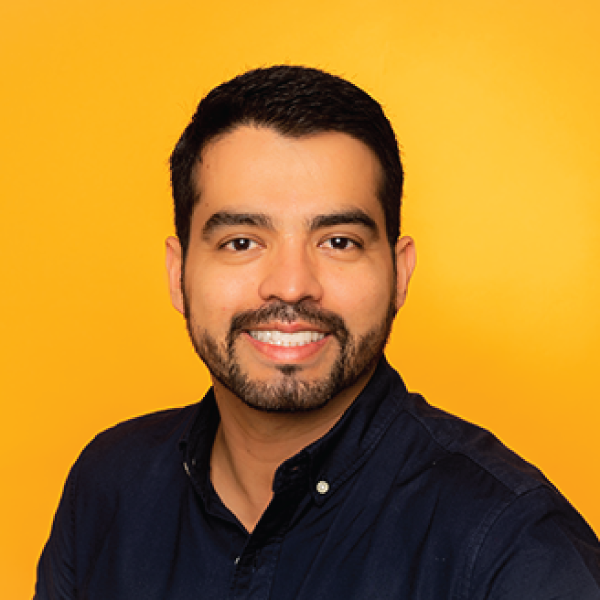
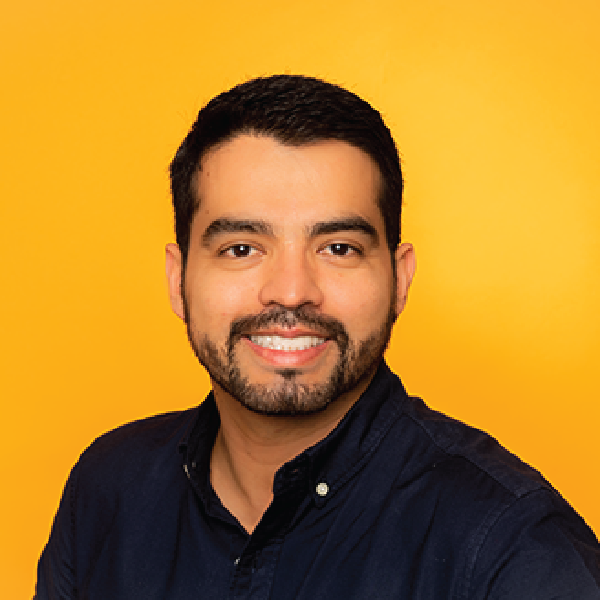
Adding Speakers and updating photos for existing speakers
[MDE-2020]Adding Speakers and updating photos for existing speakers

diff --git a/content/events/2020-medellin/speakers/christian-gomez.md b/content/events/2020-medellin/speakers/christian-gomez.md
@@ -1,0 +1,24 @@
++++
+Title = "Christian Camilo Gómez"
+#Twitter = "Ana_M_Medina"
+image = "Christian-Camilo-Gomez.png"
+type = "speaker"
+linktitle = "christian-gomez"
+LinkedIn = "https://www.linkedin.com/in/chrisgpz/"
+#Website = ""
++++
+
+Profesional de sistemas con +9 años de experiencia en TI apasionado por las nuevas tecnologías con enfoque principal en el aseguramiento de calidad de software en el ciclo de vida de desarrollo de software.
+
+Durante este tiempo me he desempeñado en fábricas de software, fabricas de testing y empresas de diferentes core de negocio como salud EPS, gubernamental, banca, telecomunicaciones, retail entre otros.
+
+En los últimos 4 años me he dedicado a apoyar la transformación de las organizaciones en sus áreas de tecnología a través de conceptos y metodologías principales como ISTQB, Agile Testing, Automatización de pruebas, DevOps, DevTestOps, Transformación Digital y en general la adopción de nuevas filosofías de trabajo y buenas practicas en el SDLC (Software Development Life Cycle).
+
+Me motiva apoyar a las organizaciones en la adopción de herramientas de automatización escalables y rentables mediante la implementación de múltiples tecnologías que permitan cambiar el mind-set, visión y entendimiento de las áreas clave de TI, lo anterior incluyendo estrategias que permitan tener OKR's y KPI's de evolución durante la ejecución.
+
+En lo personal considero que tengo facilidad de comunicación e interacción para la atención a clientes, suficientes bases y principios de liderazgo, responsabilidad, honestidad y búsqueda permanente de la superación en el trabajo como elemento fundamental de mi formación personal y profesional, Buenas relaciones interpersonales, gran capacidad de escucha y comunicación, con un alto grado de sentido de motivación y compromiso.
+
+Especialidades: ISTQB, Automatización de pruebas, Agile Testing, DevOps, Iac (Infrastructure as code), DaaS (Deployment as a Service), Modelo de adopción tecnológica, Habilidades para liderazgo de proyecto de transformación y venta consultiva de nuevas tecnologías. 
+
+
+

diff --git a/content/events/2020-medellin/speakers/jose-sanchez.md b/content/events/2020-medellin/speakers/jose-sanchez.md
@@ -1,0 +1,15 @@
++++
+Title = "Jose Andrés Sánchez"
+#Twitter = "Ana_M_Medina"
+image = "Jose.png"
+type = "speaker"
+linktitle = "jose-sanchez"
+LinkedIn = "https://www.linkedin.com/in/joseandrescoach/"
+#Website = ""
++++
+
+Asesoro a compañías como un Business Agility Coach, acompañándolas a lograr conectarse con los consumidores, mejorar sus procesos, eliminar desperdicios, reducir costos y mejorar indicadores como Ratio de eficiencia y ROI.
+
+Mi aproximación no es soft, me enfoco en lograr los resultados empresariales, entendiendo que si construimos una compañía sana y responsable sus empleados estarán bien. Gestiono ámbitos como la cultura y el mindset desde la gestión del entorno y las dinámicas empresariales, como por ejemplo, entendiendo que un equipo informado, con herramientas correctas y en sintonía con los objetivos tendrá todos los elementos necesarios para comportarse con empoderamiento, liderazgo y tomará decisiones, con líderes más confiados.
+
+

diff --git a/content/events/2020-medellin/speakers/carlos-acevedo.md b/content/events/2020-medellin/speakers/carlos-acevedo.md
@@ -1,0 +1,16 @@
++++
+Title = "Carlos Acevedo"
+#Twitter = "Ana_M_Medina"
+image = "Carlos-Acevedo.png"
+type = "speaker"
+linktitle = "carlos-acevedo"
+LinkedIn = "https://www.linkedin.com/in/carlos-eduardo-acevedo-duque-6b6a52126/"
+#Website = ""
++++
+
+Ingeniero de Sistemas de la Universidad de Antioquia, Especialista en Preparación y Evaluación de proyectos privados de la misma universidad y becado por grado de honor.
+Apasionado por la tecnología y el desarrollo de software.
+Con más de 7 años de experiencia en la industria, participando en diversos proyectos de transformación Digital, desarrollo de aplicaciones en diferentes tecnologías, se ha desempeñado como ingeniero de adopción a DevOps y consultor Cloud.
+
+
+

diff --git a/content/events/2020-medellin/speakers/angel-nunez.md b/content/events/2020-medellin/speakers/angel-nunez.md
@@ -1,0 +1,15 @@
++++
+Title = "Angel Nuñez"
+#Twitter = "Ana_M_Medina"
+image = "Angel-Nunez.png"
+type = "speaker"
+linktitle = "angel-nunez"
+LinkedIn = "https://www.linkedin.com/in/angelnunezsalazar/"
++++
+
+Consultant and trainer in Enterprise Agility, focused on rethinking organizational structures, improving portfolio management, optimizing value flows, sustaining continuous improvement programs, accompanying cultural change, and coaching executives in their transformation journeys.
+
+With extensive experience in the Latin America region, currently working with companies in banking, insurance, mass consumption, logistics, government, software factories and startups.
+
+
+

diff --git a/content/events/2020-medellin/speakers/carlos-zapata.md b/content/events/2020-medellin/speakers/carlos-zapata.md
@@ -1,0 +1,14 @@
++++
+Title = "Carlos Zapata"
+#Twitter = "Ana_M_Medina"
+image = "Carlos-Zapata.png"
+type = "speaker"
+linktitle = "carlos-zapata"
+LinkedIn = "https://www.linkedin.com/in/carloszapata-devops-coach/"
+#Website = ""
++++
+
+Carlos Zapata: Ingeniero electrónico con 20+ años de experiencia en TI y la Gestión de Proyectos. Formador en marcos, técnicas y prácticas de la transformación ágil organizacional.
+
+
+

diff --git a/content/events/2020-medellin/speakers/Miguelangel-Pineda.md b/content/events/2020-medellin/speakers/Miguelangel-Pineda.md
@@ -1,0 +1,14 @@
++++
+Title = "Miguelangel Pineda"
+image = "Miguelangel-Pineda.png"
+type = "speaker"
+linktitle = "miguelangel-pineda"
+LinkedIn = "https://www.linkedin.com/in/miguelangel-pineda-78442814/"
+#Website = ""
++++
+
+Miguelangel es ingeniero de sistemas con más de 15 años de experiencia trabajando como consultor y gerente de proyectos en Venezuela, Colombia, Panamá, República Dominicana y Chile.
+
+
+
+

diff --git a/content/events/2020-medellin/speakers/ivan-gonsalez.md b/content/events/2020-medellin/speakers/ivan-gonsalez.md
@@ -1,0 +1,13 @@
++++
+Title = "Iván Gonzales"
+#Twitter = "Ana_M_Medina"
+image = "Ivan-Gonsalez.png"
+type = "speaker"
+linktitle = "ivan-gonsalez"
+LinkedIn = "https://www.linkedin.com/in/civangonzales/"
+#Website = ""
++++
+
+Accredited Kanban Trainer
+
+
